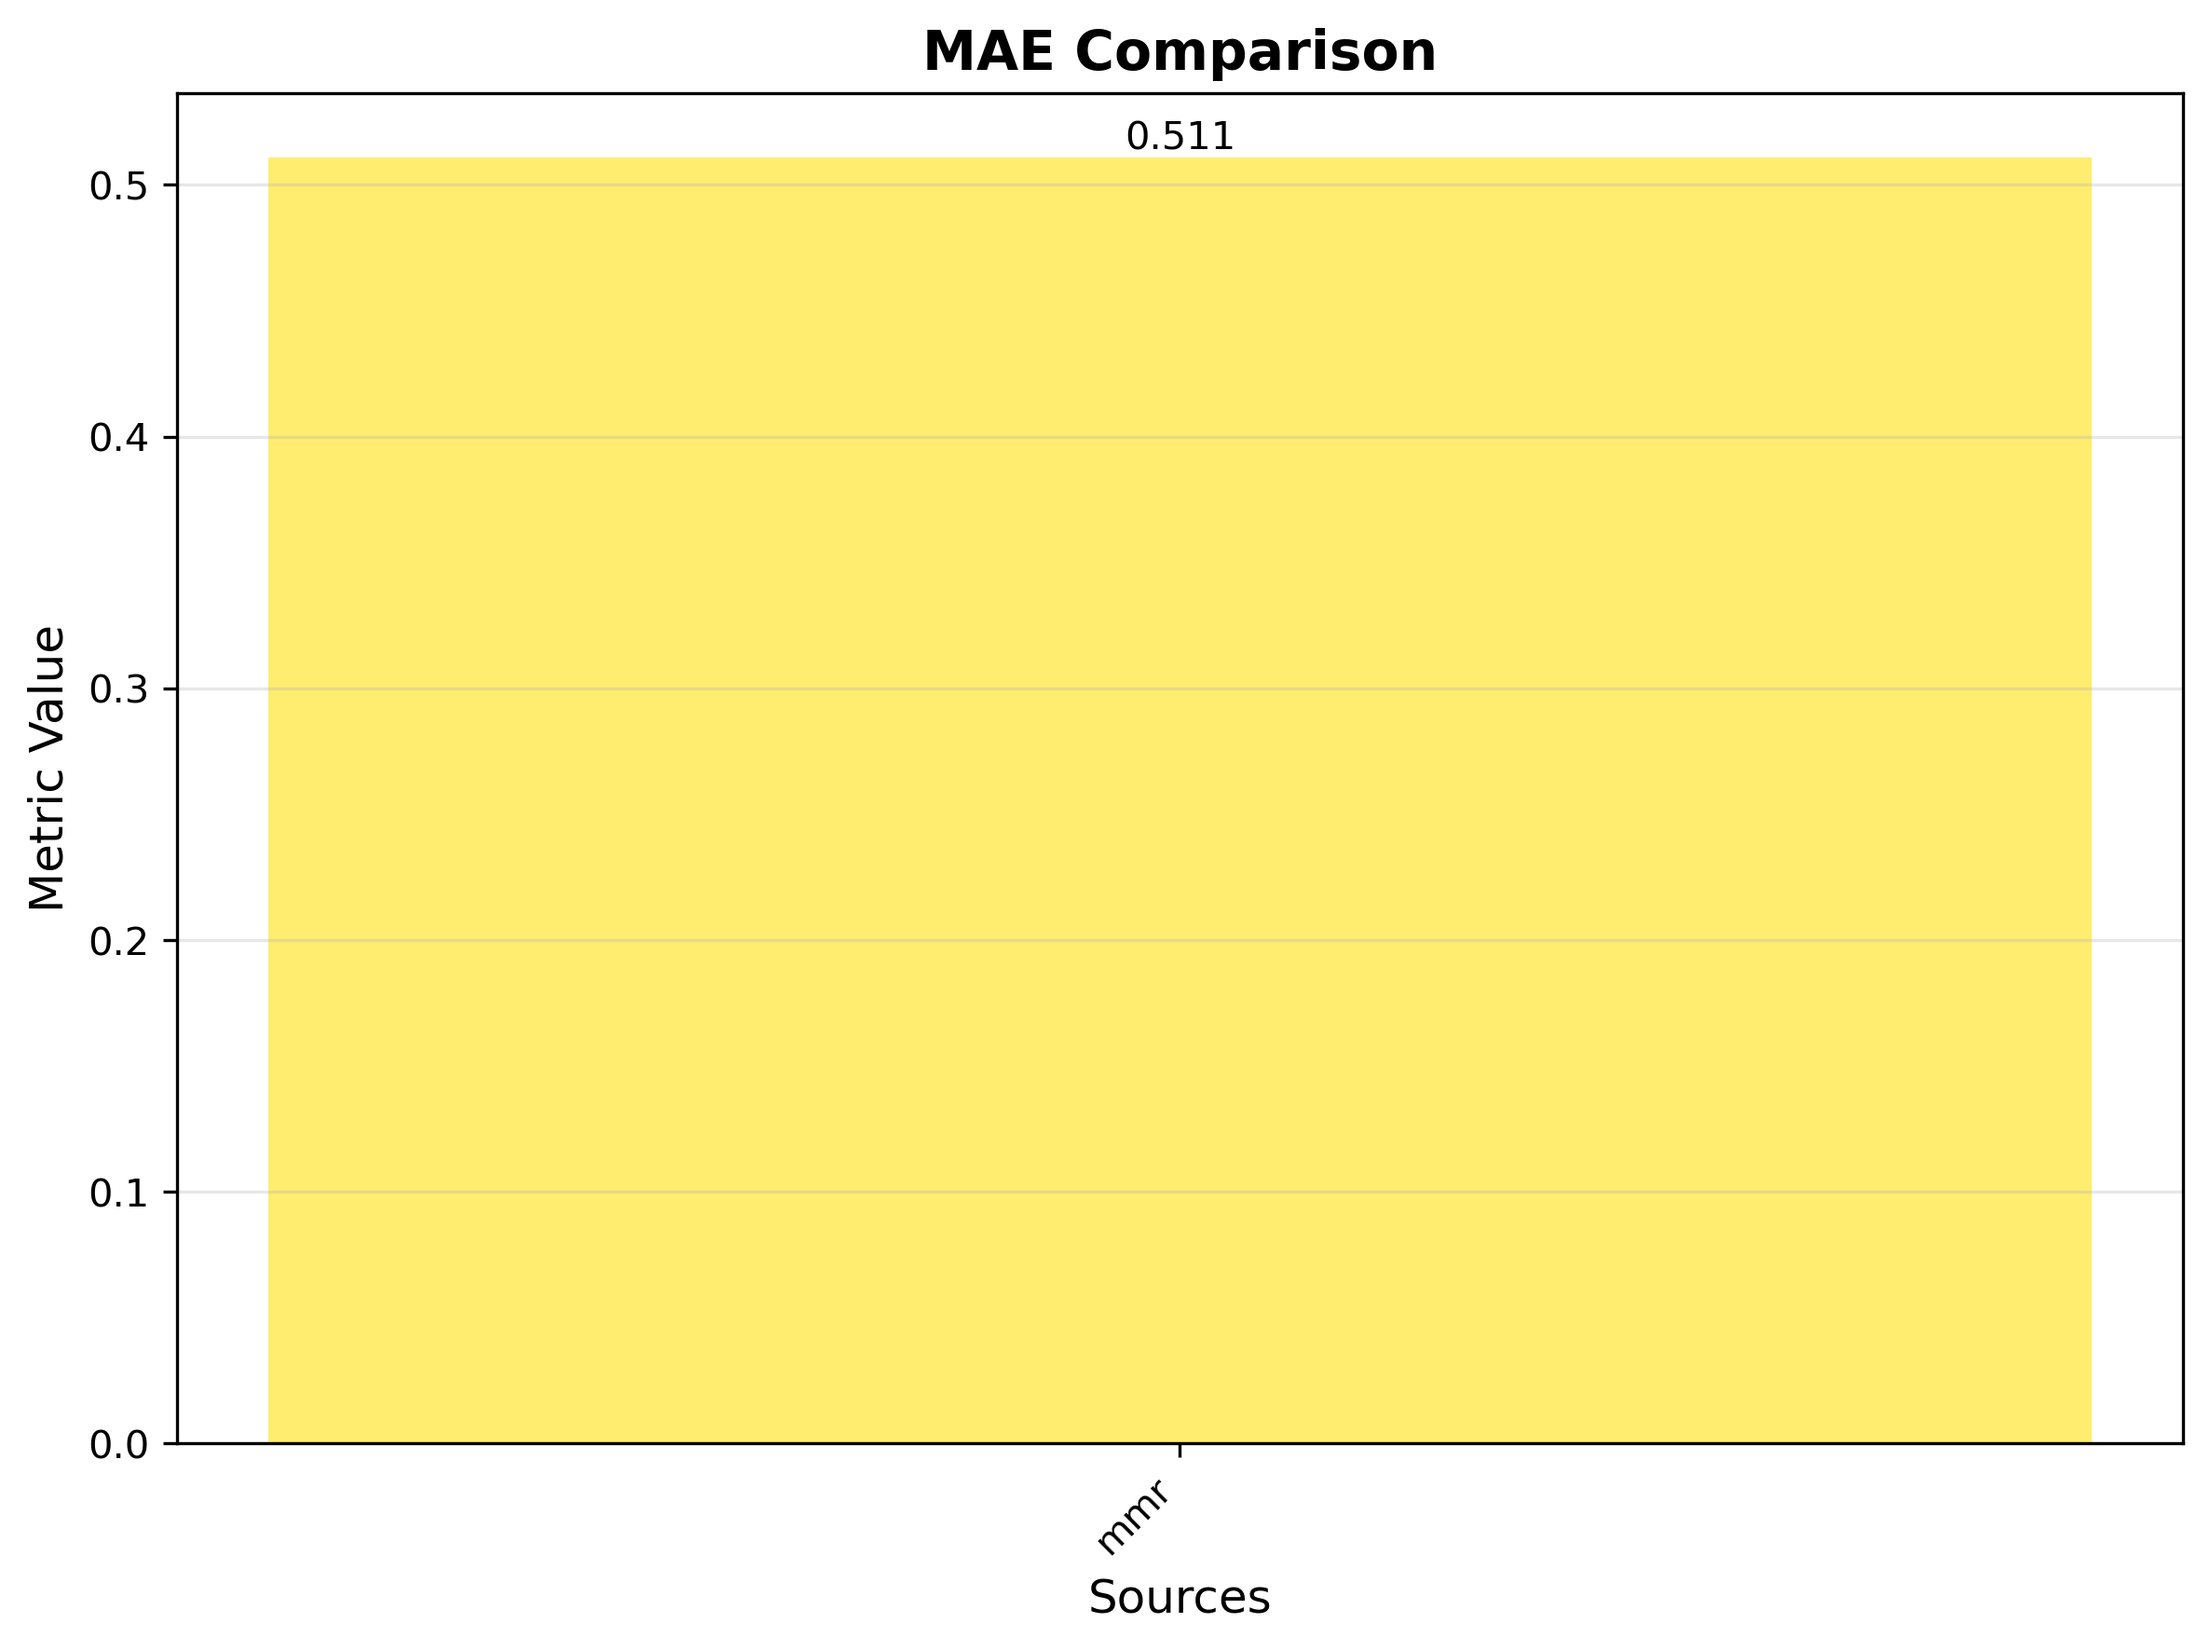
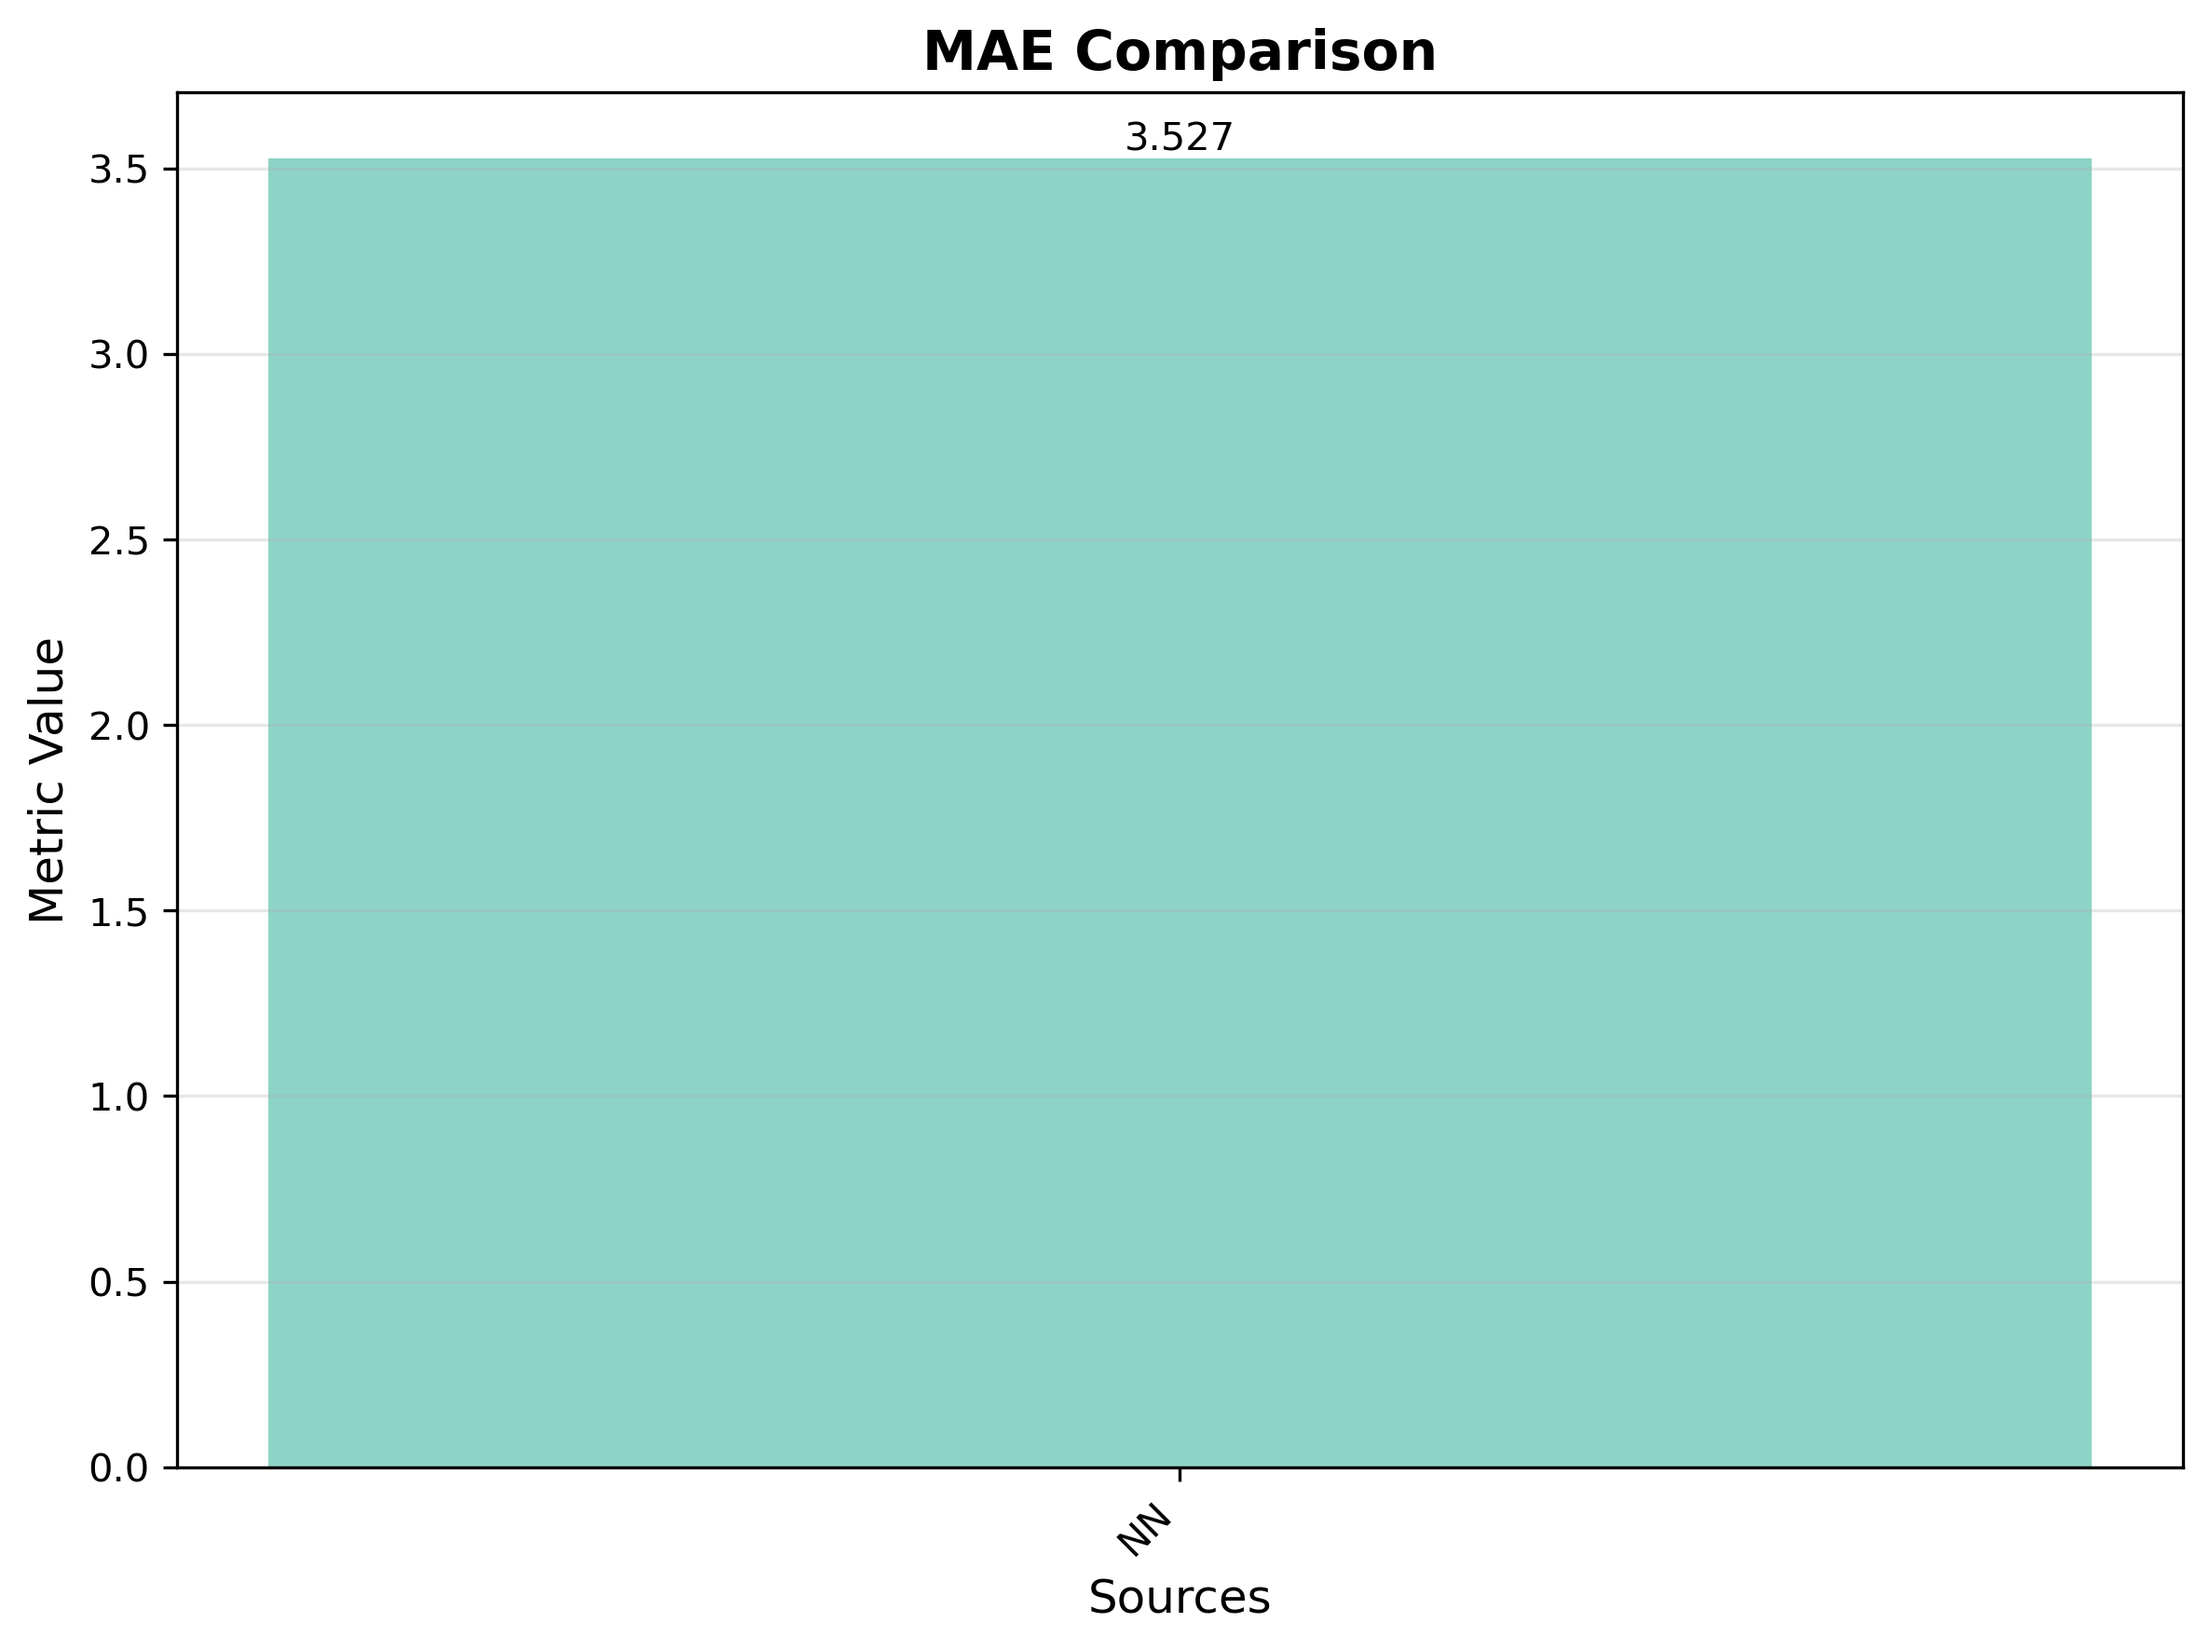
Added So NN data will work with it.

diff --git a/src/evaluation/MetricsReporter2.py b/src/evaluation/MetricsReporter2.py
@@ -11,7 +11,6 @@ import matplotlib.pyplot as plt
 import os
 from rectools.metrics.auc import PartialAUC
 
-
 # Calculate most metrics using RecTools
 def calculate_all_metrics(data_handler, threshold=4.0, k=5, item_features=None, model_name="Unknown"):
     results = {}
@@ -67,8 +66,8 @@ def calculate_all_metrics(data_handler, threshold=4.0, k=5, item_features=None, 
         results[f"Coverage@{k}"] = metrics_values[f'CatalogCoverage@{k}'] / catalog_size
         results["Overall Coverage"] = results[f"Coverage@{k}"]
     except Exception as e:
-        print(f"⚠  WARNING: Error calculating ranking metrics for {model_name}: {e}")
-        print("   Filling with NaN values and continuing...")
+        print(f"Warning: Error calculating ranking metrics for {model_name}: {e}")
+        print("Filling with NaN values and continuing...")
         results[f"Precision@{k}"] = np.nan
         results[f"Recall@{k}"] = np.nan
         results[f"F1@{k}"] = np.nan
@@ -107,22 +106,22 @@ def _calculate_rating_metrics(data_handler, model_name="Unknown"):
 
         # Check if merge produced any matches
         if merged.empty:
-            print(f"\n⚠  WARNING for {model_name}: No matching user-item pairs found!")
+            print(f"\nWarning for {model_name}: No matching user-item pairs found!")
             print(
-                f"   Predictions have {len(data_handler.predictions)} rows, {data_handler.predictions['item_id'].nunique()} unique items")
+                f"Predictions have {len(data_handler.predictions)} rows, {data_handler.predictions['item_id'].nunique()} unique items")
             print(
-                f"   Ground truth has {len(data_handler.full_interactions)} rows, {data_handler.full_interactions['item_id'].nunique()} unique items")
-            print(f"   Debug - Sample predictions item_ids: {list(data_handler.predictions['item_id'].unique())[:5]}")
+                f"Ground truth has {len(data_handler.full_interactions)} rows, {data_handler.full_interactions['item_id'].nunique()} unique items")
+            print(f"Debug - Sample predictions item_ids: {list(data_handler.predictions['item_id'].unique())[:5]}")
             print(
-                f"   Debug - Sample ground truth item_ids: {list(data_handler.full_interactions['item_id'].unique())[:5]}")
-            print("   Returning NaN for RMSE/MAE and continuing...\n")
+                f"Debug - Sample ground truth item_ids: {list(data_handler.full_interactions['item_id'].unique())[:5]}")
+            print("Returning NaN for RMSE/MAE and continuing...\n")
             return np.nan, np.nan
 
         # Remove any rows with NaN values
         merged_clean = merged[['weight_gt', 'weight_pred']].dropna()
 
         if merged_clean.empty:
-            print(f"WARNING for {model_name}: After merge, no valid rating pairs found (all NaN).")
+            print(f"Warning for {model_name}: After merge, no valid rating pairs found (all NaN).")
             return np.nan, np.nan
 
         # Calculate metrics
@@ -139,7 +138,7 @@ def _calculate_rating_metrics(data_handler, model_name="Unknown"):
         return rmse, mae
 
     except Exception as e:
-        print(f"\n❌ ERROR in RMSE/MAE calculation for {model_name}: {e}")
+        print(f"\nError in RMSE/MAE calculation for {model_name}: {e}")
         print("   Returning NaN for RMSE and MAE to allow other metrics to continue.\n")
         return np.nan, np.nan
 
@@ -251,8 +250,8 @@ def run_model_comparison(ground_truth_path, sources, threshold=4.0, k=5,
         try:
             data = load_and_process_data(ground_truth_path, predictions_path)  # from datahandler, load data
         except Exception as e:
-            print(f"❌ ERROR loading data for {source_name}: {e}")
-            print("   Skipping this model...")
+            print(f"Error loading data for {source_name}: {e}")
+            print("Skipping this model")
             continue
 
         metrics = calculate_all_metrics(data, threshold, k, item_features, source_name)  # calculate all metrics
@@ -281,7 +280,7 @@ if __name__ == "__main__":
         #(r"C:\Users\Jacob\Documents\GitHub\P5\src\datasets\mmr_data\movie\aligned_mmr_train_cosine_test_recommendations.csv", "mmr"),
         (
         r"C:\Users\Jacob\Documents\GitHub\P5\src\datasets\mmr_data\predictionNNwithBPR.csv",
-        "mmr")
+        "NN")
         # Add more models: (predictions_path, model_name)
     ]
 

diff --git a/src/evaluation/DataHandler2.py b/src/evaluation/DataHandler2.py
@@ -1,5 +1,16 @@
 import pandas as pd
 
+import warnings
+
+# Suppress the specific FutureWarning from RecTools
+warnings.filterwarnings(
+    "ignore",
+    category=FutureWarning,
+    message="Downcasting object dtype arrays.*"
+)
+
+# Or suppress ALL FutureWarnings from RecTools (broader)
+warnings.filterwarnings("ignore", module="rectools.*")
 
 # Container for recommendation data
 class ProcessedData:
@@ -10,12 +21,9 @@ class ProcessedData:
         self.recommendations = recommendations
         self.full_interactions = full_interactions
 
-
 # Load and transform data into RecTools format.
 def load_and_process_data(ground_truth_path, predictions_path):
-    print("\n" + "=" * 70)
-    print("STEP 1: Loading raw data")
-    print("=" * 70)
+    print("Loading raw data")
 
     # Load data
     gt = pd.read_csv(ground_truth_path)
@@ -25,9 +33,7 @@ def load_and_process_data(ground_truth_path, predictions_path):
     print(f"Predictions columns: {list(pred.columns)}")
 
     # Convert IDs to strings
-    print("\n" + "=" * 70)
-    print("STEP 2: Converting IDs to strings")
-    print("=" * 70)
+    print("Converting IDs to strings")
 
     # Support both itemId and title
     id_columns = ["userId", "itemId", "title"]
@@ -40,9 +46,7 @@ def load_and_process_data(ground_truth_path, predictions_path):
             print(f"Converted predictions['{col}'] to string")
 
     # Convert to RecTools format
-    print("\n" + "=" * 70)
-    print("STEP 3: Converting to RecTools format")
-    print("=" * 70)
+    print("Converting to RecTools format")
 
     ground_truth = _to_rectools_format(gt, is_ground_truth=True)
     predictions = _to_rectools_format(pred, is_ground_truth=False)
@@ -51,15 +55,11 @@ def load_and_process_data(ground_truth_path, predictions_path):
     print(f"Predictions columns after format: {list(predictions.columns)}")
 
     # Validate
-    print("\n" + "=" * 70)
-    print("STEP 4: Validating columns")
-    print("=" * 70)
+    print("Validating columns")
     _validate_columns(ground_truth, predictions)
 
     # Prepare structures
-    print("\n" + "=" * 70)
-    print("STEP 5: Preparing interaction structures")
-    print("=" * 70)
+    print("Preparing interaction structures")
 
     interactions = _prepare_interactions(ground_truth)
     recommendations = _prepare_recommendations(predictions)
@@ -89,11 +89,14 @@ def _to_rectools_format(df, is_ground_truth):
     if "itemId" in df.columns:
         column_map["itemId"] = "item_id"
         print(f"Found 'itemId' column, will map to 'item_id'")
+    elif "movieId" in df.columns:
+        column_map["movieId"] = "item_id"
+        print(f"Found 'movieId' column, will map to 'item_id'")
     elif "title" in df.columns:
         column_map["title"] = "item_id"
         print(f"Found 'title' column, will map to 'item_id'")
     else:
-        print("⚠  WARNING: No item identifier column found (expected 'itemId' or 'title')")
+        print("Warning no item identifier column found (expected 'itemId', 'movieId', or 'title')")
 
     # Handle rating column
     if is_ground_truth:
@@ -110,7 +113,7 @@ def _to_rectools_format(df, is_ground_truth):
         print(f"Will map '{rating_col}' to 'weight'")
     else:
         print(
-            f"⚠  WARNING: No rating column found. Tried: {possible_rating_cols if not is_ground_truth else ['rating']}")
+            f"No rating column found. Tried: {possible_rating_cols if not is_ground_truth else ['rating']}")
 
     print(f"\nColumn mapping: {column_map}")
     df = df.rename(columns=column_map)
@@ -134,12 +137,11 @@ def _validate_columns(gt, pred):
     for df, name in [(gt, "Ground Truth"), (pred, "Predictions")]:
         missing = [col for col in required if col not in df.columns]
         present = [col for col in required if col in df.columns]
-        print(f"  {name}: present={present}, missing={missing}")
+        print(f"{name}: present={present}, missing={missing}")
         if missing:
             raise ValueError(f"{name} missing columns: {missing}")
         else:
-            print(f"  ✓ {name} has all required columns")
-
+            print(f"{name} has all required columns")
 
 def _prepare_interactions(df):
     print(f"\nPreparing interactions - selecting columns: {['user_id', 'item_id', 'weight']}")
